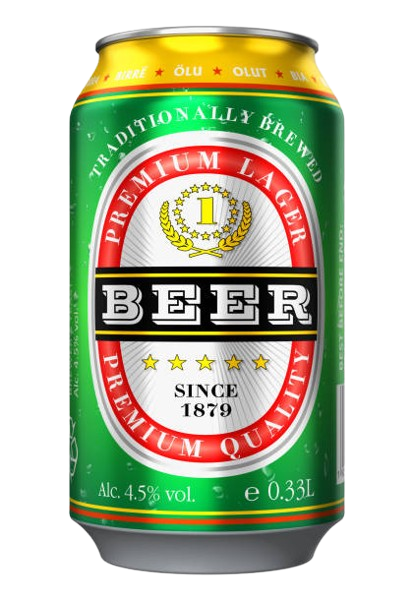
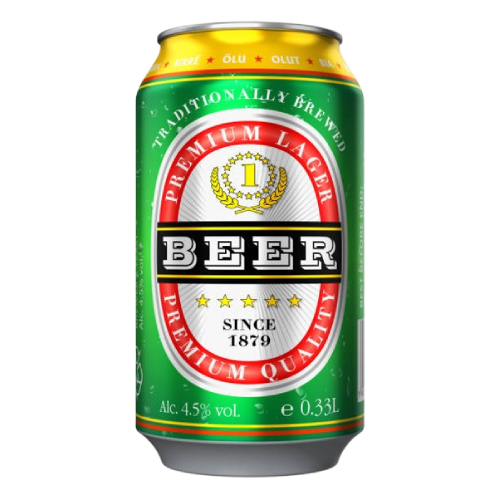
appwrite database implementation

diff --git a/src/components/Shop.jsx b/src/components/Shop.jsx
@@ -1,32 +1,41 @@
-import products from "../constants/products"
 import ProductCard from "./ProductCard"
 import { useEffect, useState } from "react"
+import { Client, TablesDB, Query } from "appwrite"
+//-----------------appwrite credentials
 
-const Shop = ({ searchValue, selectedCategory }) => {
+const PROJECT_ID = import.meta.env.VITE_PUBLIC_PROJECT_ID;
+const ENDPOINT = import.meta.env.VITE_PUBLIC_ENDPOINT;
+const DATABASE_ID = import.meta.env.VITE_PUBLIC_DATABASE_ID;
 
-  const[filteredProducts,setFilteredProducts]=useState(products)
+const Shop = () => {
 
-  useEffect(() => {
-    let filtered = products;
+  const[products,setProducts]=useState([])
 
-    if (searchValue) {
-      filtered = filtered.filter(product =>
-        product.name.toLowerCase().includes(searchValue.toLowerCase())
-      );
-    }
+  //------------------------appwrite database code
 
-    if (selectedCategory && selectedCategory !== '') {
-      filtered = filtered.filter(product =>
-        product.category === selectedCategory
-      );
-    }
+  const client = new Client().setEndpoint(ENDPOINT).setProject(PROJECT_ID);
+  const tablesDB = new TablesDB(client);
 
-    setFilteredProducts(filtered);
-  }, [searchValue, selectedCategory]);
+  const handleCallRows = async () => {
+    try {
+      const response = await tablesDB.listRows(DATABASE_ID, "products");
+
+      const newRows = response.rows 
+
+      setProducts(newRows)
+      console.log(products)
+    } catch (error) {
+      console.log(error);
+    } 
+  };
+
+  useEffect(()=>{
+    handleCallRows()
+  },[])
 
   return (
       <div className="w-full py-27 mx-auto grid grid-cols-2 sm:grid-cols-2 md:grid-cols-3 lg:grid-cols-4 gap-8 overflow-y-auto">
-        {filteredProducts.map(product => (
+        {products.map(product => (
           <ProductCard 
             key={product.id}
             product={product}

diff --git a/src/components/Cart.jsx b/src/components/Cart.jsx
@@ -6,7 +6,7 @@ import { useState, useEffect } from "react"
 const Cart = () => {
 
   const cart = useCartStore(state=>state.cart)
-  const clearCart = useCartStore(state=>state.clearCart)
+  const clearCart = useCartStore(state=>state.clearCart)     
   const getTotalPrice = useCartStore(state=>state.getTotalPrice)
   const getTotalQuantity = useCartStore(state=>state.getTotalQuantity)
   const[address,setAddress]=useState('')
@@ -50,7 +50,7 @@ const Cart = () => {
       
       
       {modal ? (
-        <div className="modal fixed top-1/2 left-1/2 transform -translate-x-1/2 -translate-y-1/2 z-50 bg-white rounded-3xl shadow-lg w-[40%] max-md:w-[80%] max-h-[80vh] p-8 flex flex-col gap-6 overflow-auto">
+        <div className="modal fixed top-1/2 left-1/2 transform -translate-x-1/2 -translate-y-1/2 z-50 bg-white rounded-3xl shadow-lg w-[40%] max-md:w-[90%] max-h-[90vh] p-8 flex flex-col gap-6 overflow-auto">
           <button 
             onClick={()=>handleModal()}
             className="self-end cursor-pointer bg-red-500 hover:bg-red-600 text-white rounded-full p-2 w-10 h-10 flex items-center justify-center shadow-md transition"
@@ -110,7 +110,7 @@ const Cart = () => {
             className="checkout-btn mt-6 mb-2 cursor-pointer w-full max-w-xl p-4 bg-linear-to-r from-[#5289e7] to-[#65f8d8] hover:from-[#65f8d8] hover:to-[#5289e7] text-white rounded-2xl shadow transition duration-500"
             onClick={()=>handleModal()}
           >
-            Proceed to Checkout
+            <p className="uppercase text-[20px] font-bold">Comprar</p>
           </button>
         ) : ''
       }

diff --git a/src/App.jsx b/src/App.jsx
@@ -30,7 +30,7 @@ function App() {
                   selectedCategory={selectedCategory} 
                   setSelectedCategory={setSelectedCategory} 
                 />
-                <Shop searchValue={searchValue} selectedCategory={selectedCategory} />
+                <Shop />
               </>
             }
           />

diff --git a/src/components/CartCard.jsx b/src/components/CartCard.jsx
@@ -10,7 +10,7 @@ const CartCard = ({ item }) => {
   const removeFromCart = useCartStore(state=>state.removeFromCart)
 
   return (  
-    <div className="rounded-2xl flex items-center justify-between p-4 m-2 w-[90%] max-w-xl relative shrink-0 border border-gray-300 shadow-md hover:shadow-xl transition-shadow duration-300">
+    <div className="rounded-2xl flex items-center justify-between p-4 m-2 w-[90%] max-w-xl max-md:h-50 relative shrink-0 border border-gray-300 shadow-md hover:shadow-xl transition-shadow duration-300">
       <div className="flex flex-col items-center justify-center gap-2">
         <img 
           src={item.image} 

diff --git a/src/components/NavBar.jsx b/src/components/NavBar.jsx
@@ -16,7 +16,7 @@ const NavBar = () => {
           alt="shop icon" 
           className="h-10 w-10 bg-gray-400 rounded-full overflow-visible"
         />
-        <p>Shop</p>
+        <p>Tienda</p>
       </Link>
 
       <img 

diff --git a/src/constants/products.js b/src/constants/products.js
@@ -1,6 +1,6 @@
 import aceite from '../assets/images/aceite.png'
 import arroz from '../assets/images/arroz.png'
-import carne from '../assets/images/carne-de-cerdo.png'
+import carne from '../assets/images/carne.png'
 import cerveza from '../assets/images/cerveza.png'
 import galletas from '../assets/images/galletas.png'
 import gelatina from '../assets/images/gelatina.png'